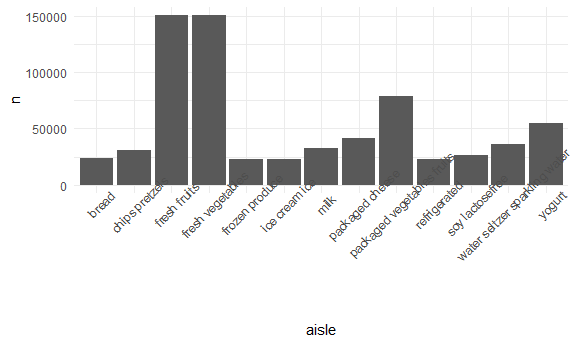
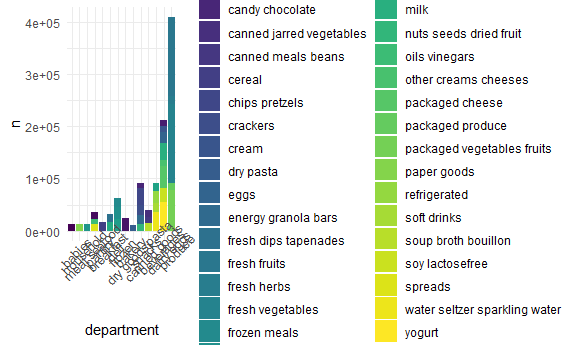
remade some plots and untidy the table in problem 3.

diff --git a/p8105_hw3_sm5592.md b/p8105_hw3_sm5592.md
@@ -1,7 +1,7 @@
 Homework 3
 ================
 Shaolei Ma
-2023-10-07
+2023-10-10
 
 ``` r
 data("instacart") # import dataset
@@ -38,12 +38,14 @@ cheese, water seltzer sparkling water.
 
 ``` r
 instacart |> 
-  count(aisle) |> 
-  arrange(desc(n)) |>
-  filter(n > 20000) |> 
-  ggplot(aes(x = aisle, y = n)) +
+  count(department, aisle) |> 
+  mutate(department = fct_reorder(department, n)) |>
+  filter(n > 10000) |> 
+  ggplot(aes(x = department, y = n, fill = aisle)) +
   geom_bar(stat = "identity") +
-  theme(axis.text.x = element_text(angle = 45)) # rotate the x-axis labels
+  theme(
+    axis.text.x = element_text(angle = 45), # rotate the x-axis labels
+    legend.position = "right")
 ```
 
 <img src="p8105_hw3_sm5592_files/figure-gfm/unnamed-chunk-2-1.png" width="90%" />
@@ -199,7 +201,8 @@ state.
 ``` r
 excellent_df |> 
   ggplot(aes(x = year, y = mean_value, group = state, color = state)) + 
-  geom_line()
+  geom_line() +
+  theme(legend.position = "right")
 ```
 
     ## Warning: Removed 3 rows containing missing values (`geom_line()`).
@@ -296,17 +299,18 @@ education category.
 ``` r
 demographics_df |> 
   count(education, sex) |> 
+  pivot_wider(
+    names_from = sex,
+    values_from = n
+  ) |> 
   knitr::kable()
 ```
 
-| education              | sex    |   n |
-|:-----------------------|:-------|----:|
-| Less than high school  | female |  23 |
-| Less than high school  | male   |  35 |
-| High school equivalent | female |  28 |
-| High school equivalent | male   |  27 |
-| More than high school  | female |  59 |
-| More than high school  | male   |  56 |
+| education              | female | male |
+|:-----------------------|-------:|-----:|
+| Less than high school  |     23 |   35 |
+| High school equivalent |     28 |   27 |
+| More than high school  |     59 |   56 |
 
 So, most participants have an education background more than high
 school, and female tend to have received higher education than male.
